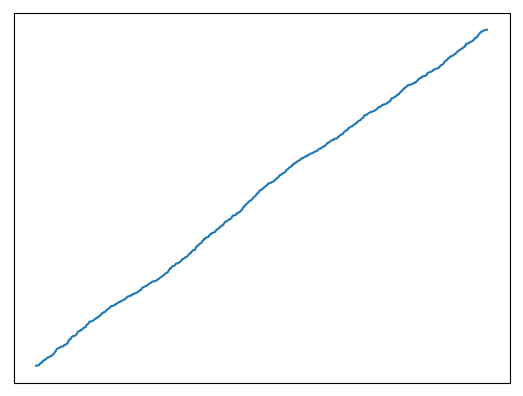
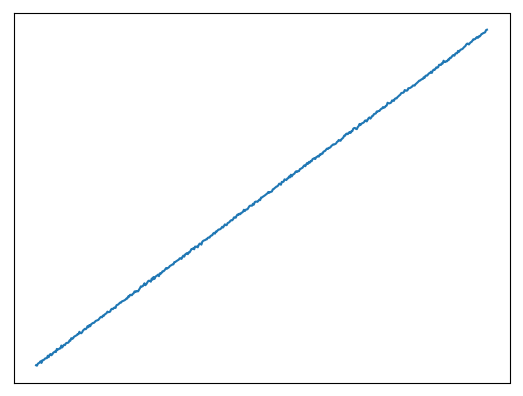
Changed stochastic trend to fixed trend.

diff --git a/code/2018-08/volatility.py b/code/2018-08/volatility.py
@@ -4,7 +4,7 @@ import numpy as np
 n = 500
 y1 = np.random.randn(n)
 
-trend = np.cumsum(100*np.abs(np.random.randn(n)))
+trend = np.arange(n)
 y2 = y1 + trend
 
 plt.plot(y1)

diff --git a/_posts/2018-08-05-volatility.md b/_posts/2018-08-05-volatility.md
@@ -30,7 +30,7 @@ y = np.random.randn(n)
 I just added a little trend to the second plot:
 
 ```python
-trend = np.cumsum(100*np.abs(np.random.randn(n)))
+trend = np.arange(n)
 y += trend
 ```
 
